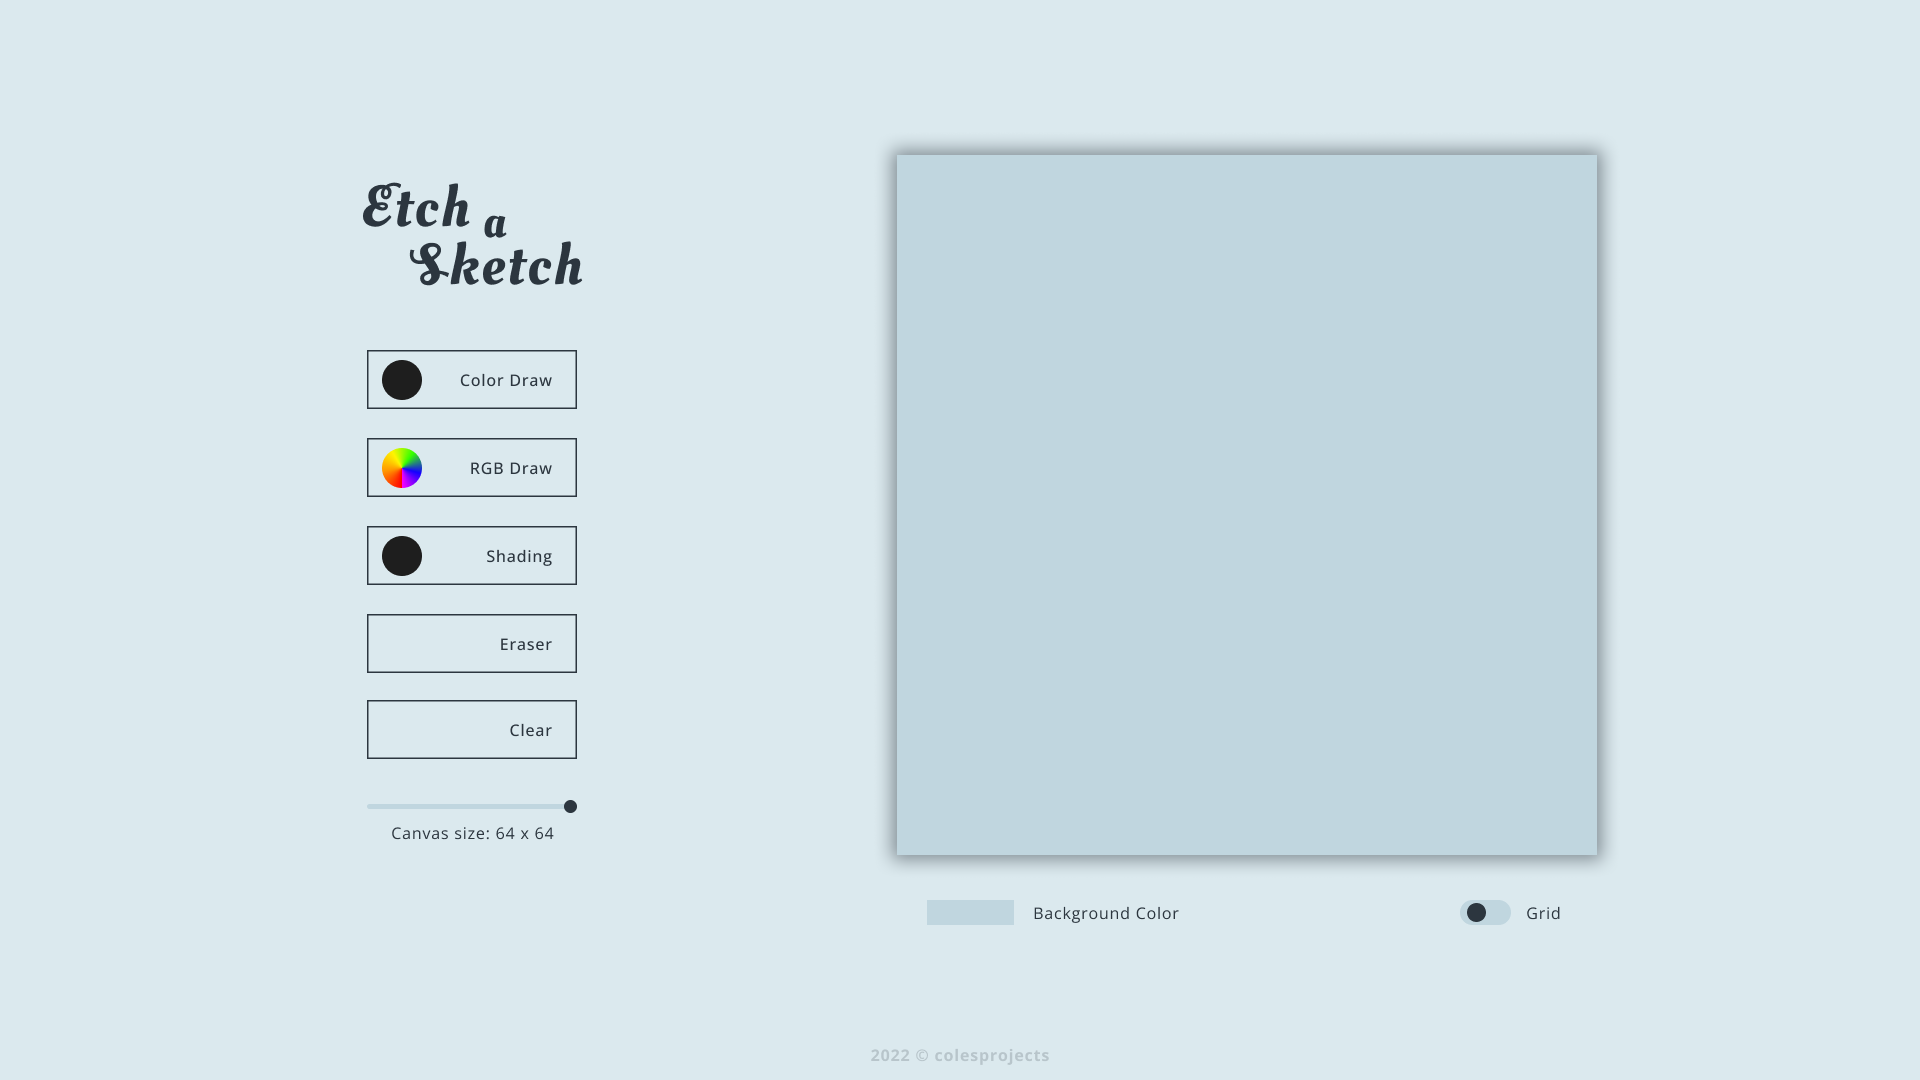
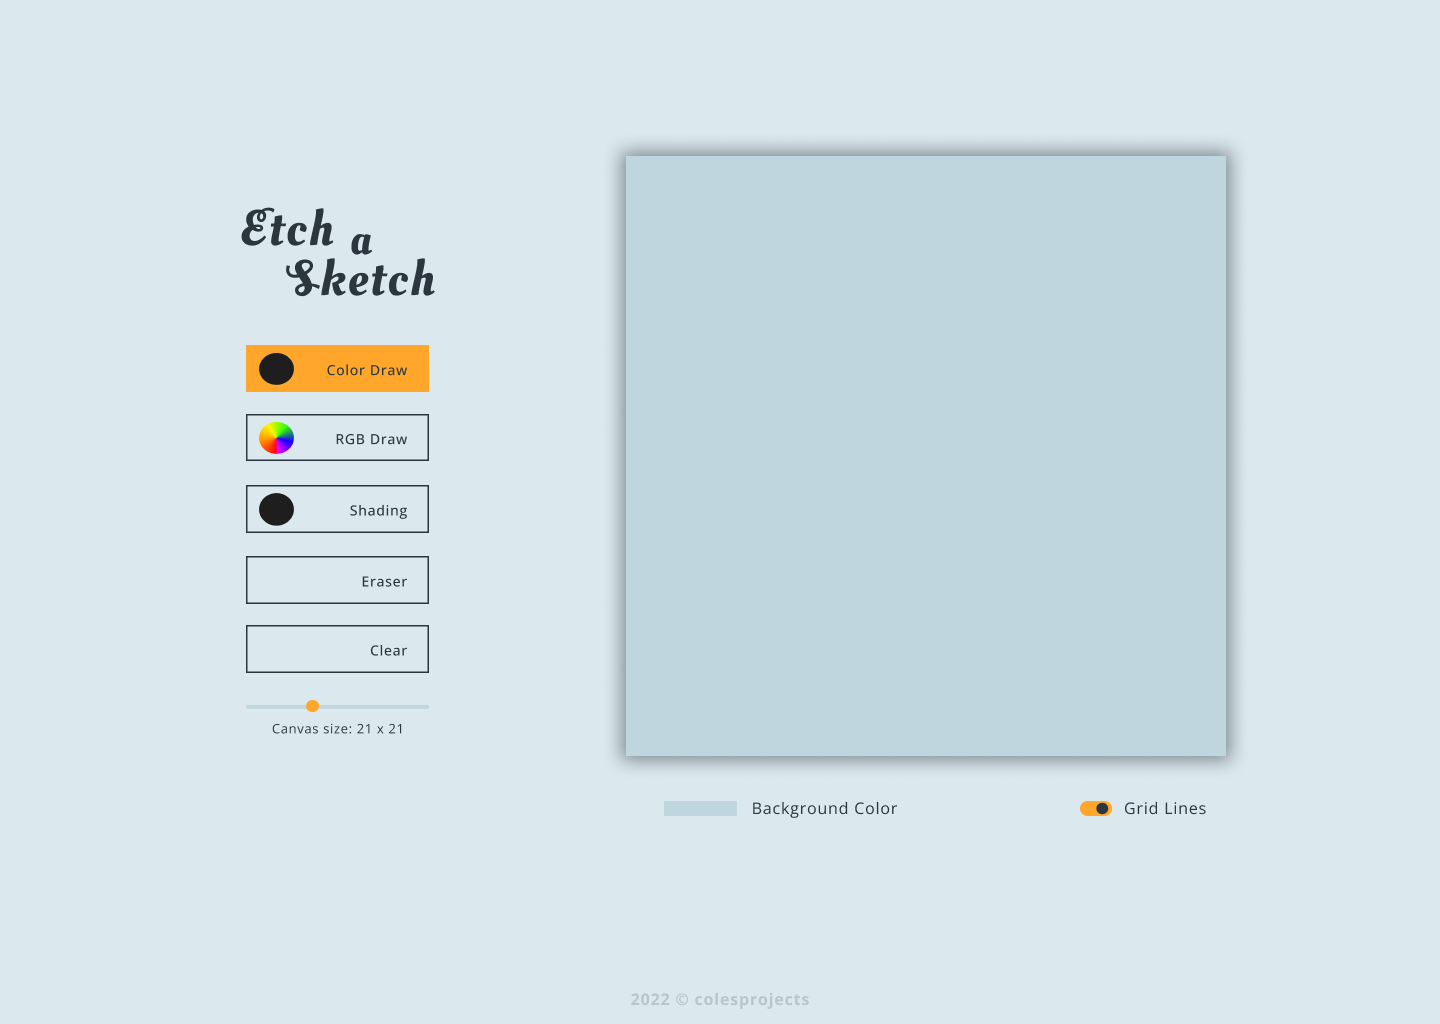
Just got back after a 4-month hiatus on this proj
Might have committer erroneous code. Correct as needed

diff --git a/app/js/script.js b/app/js/script.js
@@ -1,7 +1,10 @@
 let canvas = document.querySelector(".canvas");
 let indPix;
 let color;
-let canvasColor;
+let canvasColor = document.getElementById('colorPickerBG').value;
+
+
+canvas.style.backgroundColor = canvasColor;
 
 function createGrid(size = 21) {
     canvas.style.gridTemplateColumns = `repeat(${size}, 1fr)`;
@@ -27,10 +30,10 @@ createGrid();
 
 let slider = document.querySelector("#myRange");
 let sliderValue = document.querySelector(".sliderValue");
-sliderValue.innerHTML = "Grid size: " + slider.value + " x " + slider.value;
+sliderValue.innerHTML = "Canvas size: " + slider.value + " x " + slider.value;
 
 slider.oninput = function() {
-    sliderValue.innerHTML = this.textContent = "Grid size: " + this.value + " x " + this.value;
+    sliderValue.innerHTML = this.textContent = "Canvas size: " + this.value + " x " + this.value;
 }
 
 slider.addEventListener('change', () => {
@@ -51,10 +54,9 @@ const RGBColor = document.querySelector('.rgb-color');
 const shading = document.querySelector('.shading');
 const eraser = document.querySelector('.eraser');
 const clear = document.querySelector('.clear');
+const slider = document.getElementsByClassName('siider');
 
-
-// Solid color
-
+    // Solid color
 
 indPix.forEach((pixNum) => {
     pixNum.addEventListener('mousedown', () => {
@@ -62,9 +64,17 @@ indPix.forEach((pixNum) => {
     });
 });
 
+    //RGB color
+
+
+
+    // Eraser button
+
 eraser.addEventListener('click', e => {
     console.log(e.target); 
 });
+
+    // Clear button
 
 clear.addEventListener('click', () => {
     canvas.childNodes.forEach(chlNode => {
@@ -72,9 +82,16 @@ clear.addEventListener('click', () => {
     });
 });
 
-// Background Color Picker
+    // Background Color Picker
 
 let bgColorPicker = document.getElementById('colorPickerBG');
 bgColorPicker.addEventListener('input', () => {
-    bgColorPicker.style.setProperty('--color',bgColorPicker.value)
+    bgColorPicker.style.setProperty('--color', bgColorPicker.value);
+    canvasColor = bgColorPicker.value;
+    // bgColorPicker.value = bgColorPicker.value;
 });
+
+// canvas.style.setProperty('--color', bgColorPicker.value);
+
+
+ 

diff --git a/dist/style.css b/dist/style.css
@@ -162,7 +162,6 @@ button:hover {
 }
 
 .individualPixel {
-  background-color: #C0D6DF;
   border-top: 0.0625rem solid #808080;
   border-right: 0.0625rem solid #808080;
 }
@@ -176,13 +175,13 @@ button:hover {
 }
 
 h1 img {
-  width: 13.9375rem;
-  margin-bottom: 1.5625rem;
+  width: 12.3125rem;
+  margin-bottom: 3.125rem;
 }
 
 .toolbar {
-  margin-left: 22.5rem;
-  margin-top: 10rem;
+  margin-left: 15rem;
+  margin-top: 12.1875rem;
   width: 14.0625rem;
 }
 

diff --git a/app/scss/_menu.scss b/app/scss/_menu.scss
@@ -1,11 +1,11 @@
 h1 img {
-  width: 13.9375rem;
-  margin-bottom: 1.5625rem;
+  width: 12.3125rem;
+  margin-bottom: 3.125rem;
 }
 
 .toolbar {
-  margin-left: 22.5rem;
-  margin-top: 10rem;
+  margin-left: 15rem;
+  margin-top: 12.1875rem;
   width: 14.0625rem;
 
   & .clear {

diff --git a/app/scss/_board.scss b/app/scss/_board.scss
@@ -93,7 +93,7 @@
 // Default style
 
 .individualPixel { // individual pixel in the grid
-  background-color: $bluishGray;
+  // background-color: $bluishGray;
   border-top: .0625rem solid $gray;
   border-right: .0625rem solid $gray;
 }
